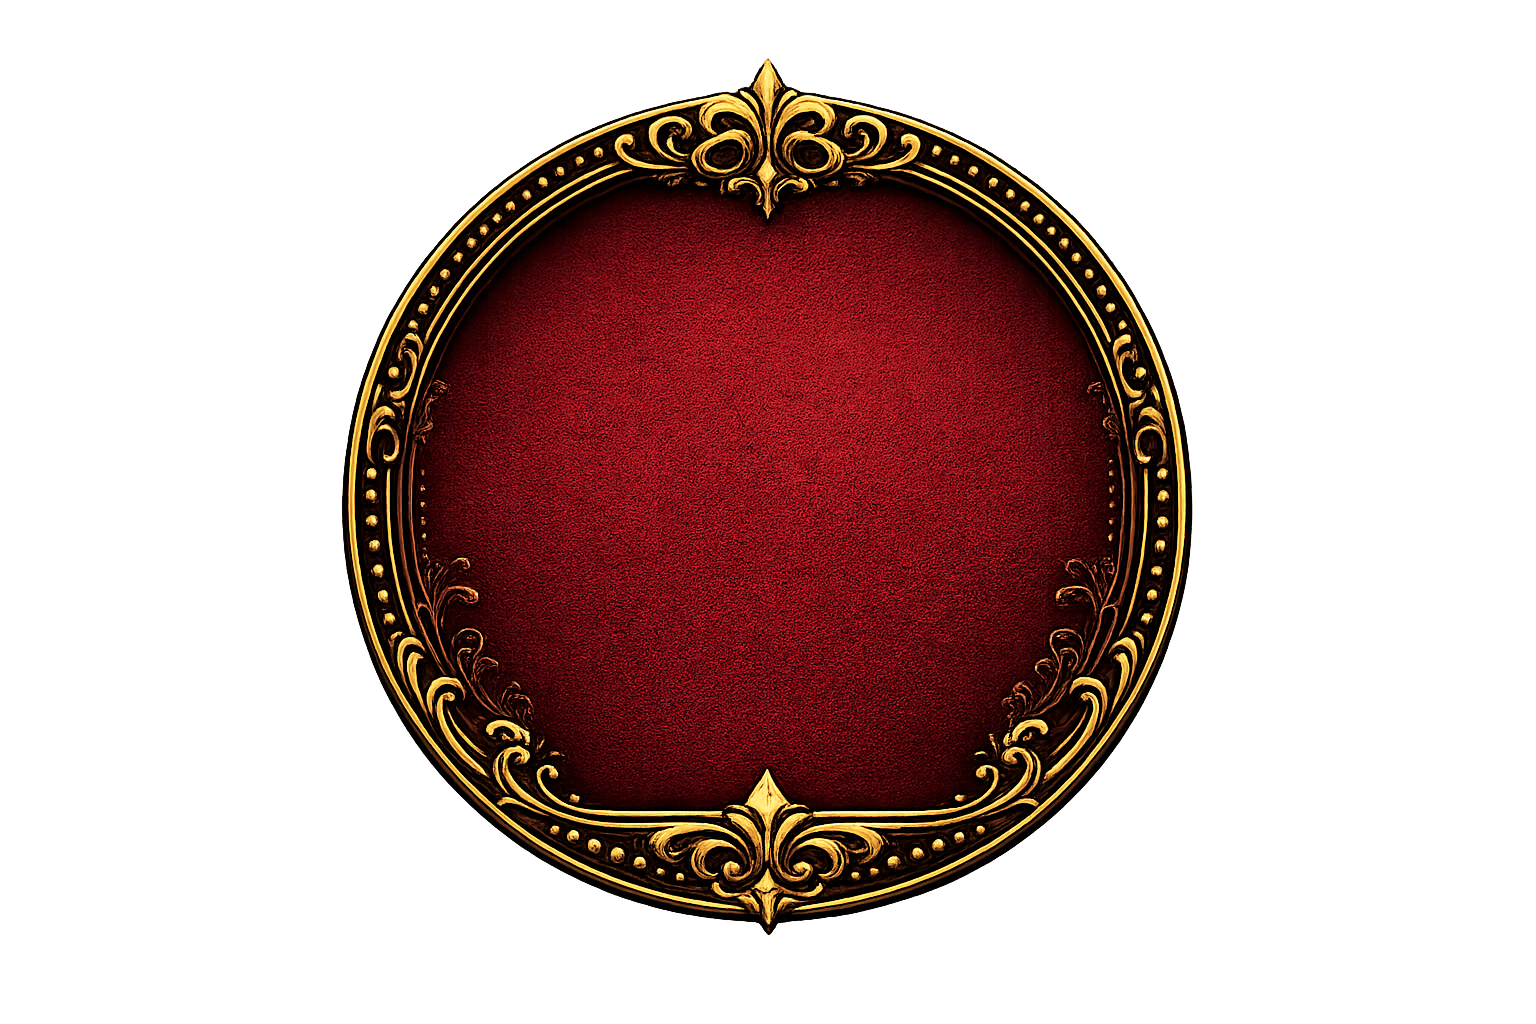
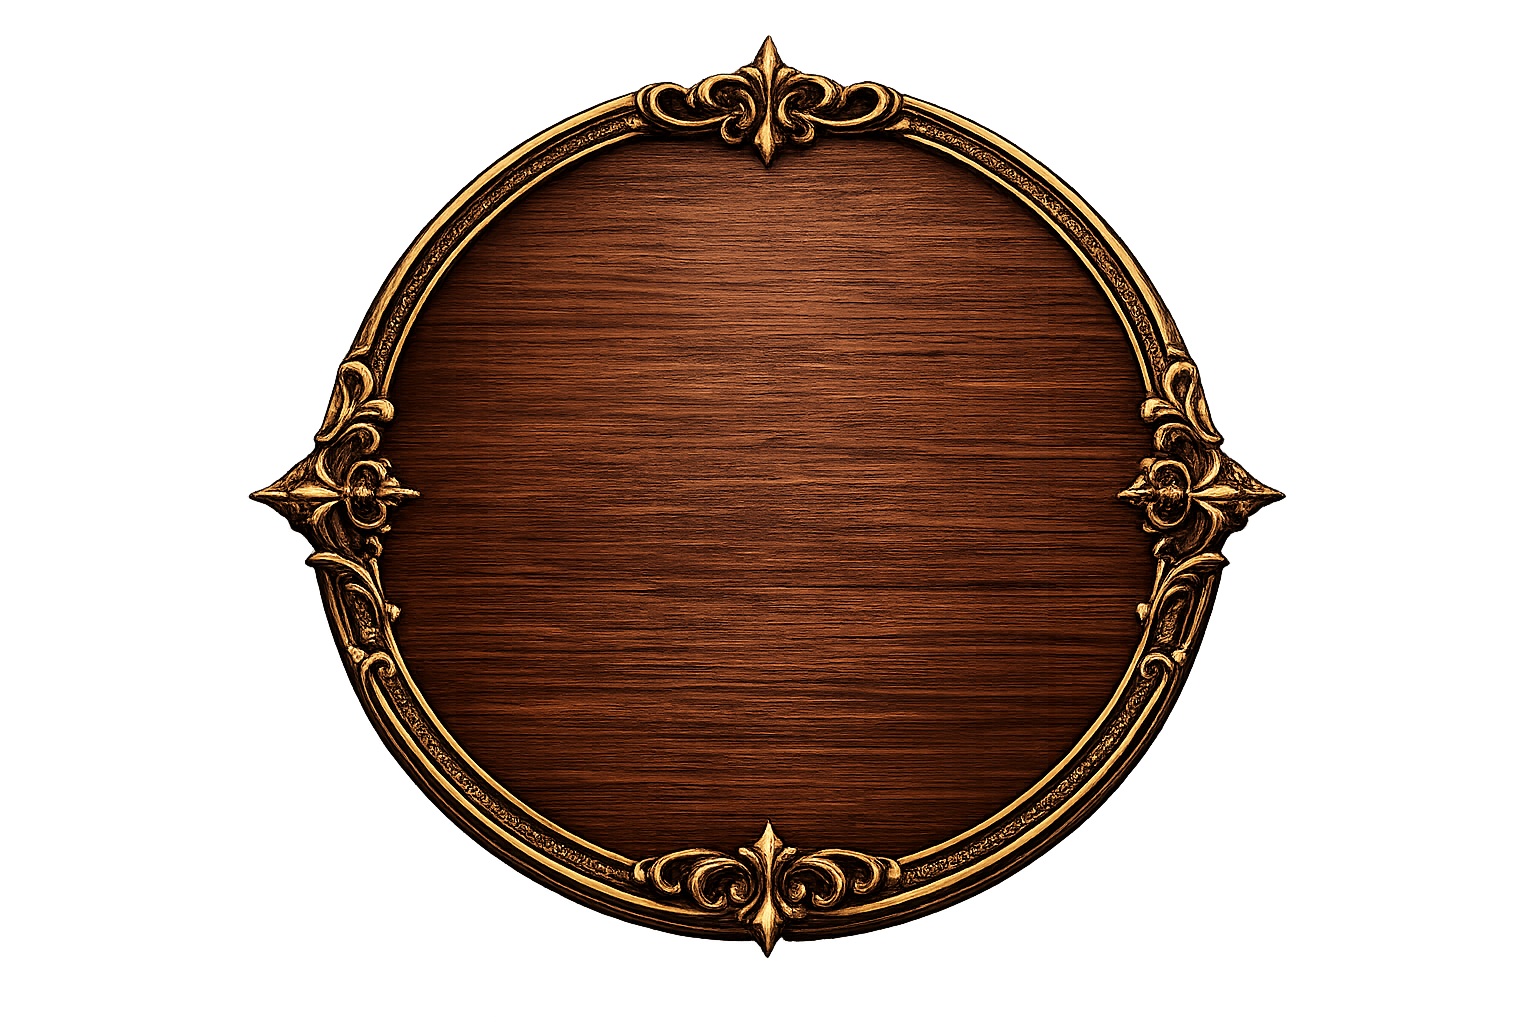
feat: add size prop and update FrameButton component styling

diff --git a/components/frame-button.tsx b/components/frame-button.tsx
@@ -7,53 +7,116 @@ import { useAppTheme } from "@/components/app-theme-provider"
 import { getButtonFrame, getButtonRoundFrame } from "@/lib/theme-assets"
 
 /**
- * FrameButton — the gold image-frame button used in the desktop navigation,
- * extracted into a reusable component for the theme re-imagine.
+ * FrameButton — the gold image-frame button used across the themed UI.
  *
- * The visual is an <img> frame (per-theme, falls back to main-hall) layered
- * behind a label/icon. We keep a real <button> underneath so keyboard focus,
- * disabled state, and click semantics are preserved.
+ * KEY IDEA ("the image IS the button"): the frame <img> is rendered in normal
+ * flow so it dictates the button's exact size at the art's natural aspect
+ * ratio — no letterboxing/empty gold space. The label/icon is then absolutely
+ * overlaid and inset (percentage padding) so it always sits on the wood panel,
+ * never over the ornate gold border or corner flourishes.
+ *
+ * Size is controlled by CSS height only, so swapping the per-theme frame art
+ * keeps every button the SAME size — only the look changes.
  *
  * Variants:
- *  - "rect"  : rectangular label button (Lisää peli, Näytä suodattimet, sort)
- *  - "icon"  : square/round icon button (grid / list view toggle)
+ *  - "rect" : rectangular label button (Lisää peli, Suodattimet, sort)
+ *  - "icon" : round/oval icon button (grid / list view toggle)
  */
 
 type FrameButtonVariant = "rect" | "icon"
+type FrameButtonSize = "sm" | "md" | "lg" | "xl"
 
 interface FrameButtonProps extends React.ButtonHTMLAttributes<HTMLButtonElement> {
   variant?: FrameButtonVariant
+  size?: FrameButtonSize
   /** Renders brighter to indicate the selected/active state (like nav isActive). */
   active?: boolean
   /** Optional leading icon. */
   icon?: React.ReactNode
 }
 
+// Height drives overall scale; width follows the art's aspect ratio.
+const RECT_HEIGHT: Record<FrameButtonSize, string> = {
+  sm: "h-12",
+  md: "h-14",
+  lg: "h-16",
+  xl: "h-20",
+}
+const ICON_HEIGHT: Record<FrameButtonSize, string> = {
+  sm: "h-11",
+  md: "h-12",
+  lg: "h-14",
+  xl: "h-16",
+}
+const RECT_TEXT: Record<FrameButtonSize, string> = {
+  sm: "text-[11px]",
+  md: "text-xs",
+  lg: "text-sm",
+  xl: "text-base",
+}
+
 export const FrameButton = forwardRef<HTMLButtonElement, FrameButtonProps>(function FrameButton(
-  { variant = "rect", active = false, icon, children, className, ...props },
+  { variant = "rect", size = "lg", active = false, icon, children, className, ...props },
   ref,
 ) {
   const { currentAppTheme } = useAppTheme()
   const frameSrc = variant === "icon" ? getButtonRoundFrame(currentAppTheme) : getButtonFrame(currentAppTheme)
 
+  if (variant === "icon") {
+    return (
+      <button
+        ref={ref}
+        className={cn(
+          "relative inline-grid place-items-center transition-all hover:scale-105 active:scale-100 disabled:opacity-50 disabled:hover:scale-100 disabled:cursor-not-allowed",
+          active && "brightness-125",
+          className,
+        )}
+        {...props}
+      >
+        {/* Frame art in normal flow → button size == image size */}
+        <img
+          src={frameSrc || "/placeholder.svg"}
+          alt=""
+          aria-hidden="true"
+          className={cn("block w-auto pointer-events-none select-none", ICON_HEIGHT[size])}
+        />
+        {/* Icon centered on the wood panel (oval inset ~ center) */}
+        <span className="absolute inset-0 grid place-items-center text-accent-gold drop-shadow-[0_1px_2px_rgba(0,0,0,0.8)]">
+          {icon}
+        </span>
+      </button>
+    )
+  }
+
   return (
     <button
       ref={ref}
       className={cn(
-        "relative inline-flex items-center justify-center transition-all hover:scale-105 active:scale-100 disabled:opacity-50 disabled:hover:scale-100 disabled:cursor-not-allowed",
+        // Content drives width; the wood plate (object-fill) stretches to match
+        // exactly so the label always sits on the panel — no truncation, and a
+        // horizontal plate tolerates modest horizontal stretch cleanly.
+        "relative inline-flex items-center justify-center px-10 transition-all hover:scale-105 active:scale-100 disabled:opacity-50 disabled:hover:scale-100 disabled:cursor-not-allowed",
         active && "brightness-125",
-        // Sizes chosen so the frame's natural aspect ratio (~2.4:1, matching the
-        // nav button) is preserved. `object-contain` keeps the art undistorted;
-        // generous px keeps the label inside the frame's wood panel.
-        variant === "icon" ? "h-20 w-20" : "h-24 px-14",
+        RECT_HEIGHT[size],
         className,
       )}
       {...props}
     >
-      {/* Gold frame art — object-contain so the plate is never squashed/stretched */}
-      <img src={frameSrc || "/placeholder.svg"} alt="" aria-hidden="true" className="absolute inset-0 h-full w-full object-contain pointer-events-none select-none" />
-      {/* Label / icon */}
-      <span className="relative z-10 inline-flex items-center justify-center gap-2 font-cinzel text-sm sm:text-base uppercase tracking-wide text-center text-accent-gold font-semibold drop-shadow-[0_1px_2px_rgba(0,0,0,0.8)]">
+      {/* Frame art fills the button box exactly (the image IS the button). */}
+      <img
+        src={frameSrc || "/placeholder.svg"}
+        alt=""
+        aria-hidden="true"
+        className="absolute inset-0 h-full w-full object-fill pointer-events-none select-none"
+      />
+      {/* Label centered on the wood panel. */}
+      <span
+        className={cn(
+          "relative z-10 inline-flex items-center justify-center gap-2 whitespace-nowrap",
+          "font-cinzel uppercase tracking-wide text-center leading-none text-accent-gold font-semibold drop-shadow-[0_1px_2px_rgba(0,0,0,0.8)]",
+          RECT_TEXT[size],
+        )}
+      >
         {icon}
         {children}
       </span>
@@ -62,9 +125,9 @@ export const FrameButton = forwardRef<HTMLButtonElement, FrameButtonProps>(funct
 })
 
 /**
- * FrameToggle — a single gold frame image acting as the decorative container,
- * with a CSS segmented two-option toggle sitting transparently inside it.
- * Matches the user's request: "css segmented toggle live inside one image".
+ * FrameToggle — a single gold frame image as the decorative container, with a
+ * CSS segmented two-option toggle sitting transparently on the wood panel.
+ * Width-driven (the art fills the given width) so two labels fit comfortably.
  */
 interface FrameToggleOption<T extends string> {
   value: T
@@ -83,38 +146,40 @@ export function FrameToggle<T extends string>({ options, value, onChange, classN
   const frameSrc = getButtonFrame(currentAppTheme)
 
   return (
-    <div className={cn("relative inline-flex h-28 items-center justify-center px-14", className)}>
-      {/* Decorative gold frame — object-contain keeps the plate undistorted */}
+    <div className={cn("relative inline-block w-[22rem] max-w-full", className)}>
+      {/* Frame art fills width → toggle size == image size */}
       <img
         src={frameSrc || "/placeholder.svg"}
         alt=""
         aria-hidden="true"
-        className="absolute inset-0 h-full w-full object-contain pointer-events-none select-none"
+        className="block h-auto w-full pointer-events-none select-none"
       />
-      {/* Transparent segmented toggle */}
-      <div
-        role="tablist"
-        className="relative z-10 inline-flex items-center gap-1 rounded-full border border-accent-gold/40 bg-background/40 p-1 backdrop-blur-sm"
-      >
-        {options.map((opt) => {
-          const isActive = opt.value === value
-          return (
-            <button
-              key={opt.value}
-              role="tab"
-              aria-selected={isActive}
-              onClick={() => onChange(opt.value)}
-              className={cn(
-                "rounded-full px-4 py-1.5 font-cinzel text-xs sm:text-sm uppercase tracking-wide transition-colors",
-                isActive
-                  ? "bg-accent-gold text-background font-semibold shadow"
-                  : "text-accent-gold/80 hover:text-accent-gold",
-              )}
-            >
-              {opt.label}
-            </button>
-          )
-        })}
+      {/* Segmented control inset onto the wood panel */}
+      <div className="absolute inset-0 flex items-center justify-center px-[14%]">
+        <div
+          role="tablist"
+          className="inline-flex items-center gap-1 rounded-full border border-accent-gold/40 bg-background/40 p-1 backdrop-blur-sm"
+        >
+          {options.map((opt) => {
+            const isActive = opt.value === value
+            return (
+              <button
+                key={opt.value}
+                role="tab"
+                aria-selected={isActive}
+                onClick={() => onChange(opt.value)}
+                className={cn(
+                  "rounded-full px-4 py-1.5 font-cinzel text-xs sm:text-sm uppercase tracking-wide transition-colors",
+                  isActive
+                    ? "bg-accent-gold text-background font-semibold shadow"
+                    : "text-accent-gold/80 hover:text-accent-gold",
+                )}
+              >
+                {opt.label}
+              </button>
+            )
+          })}
+        </div>
       </div>
     </div>
   )